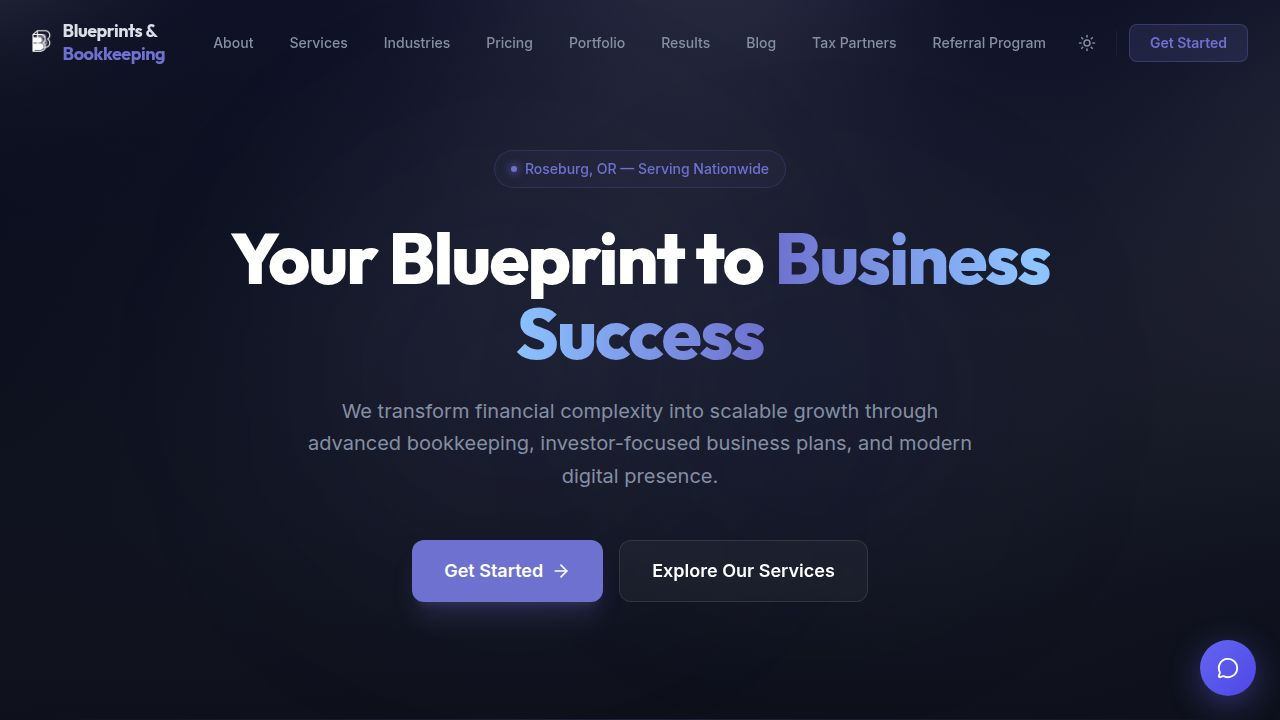
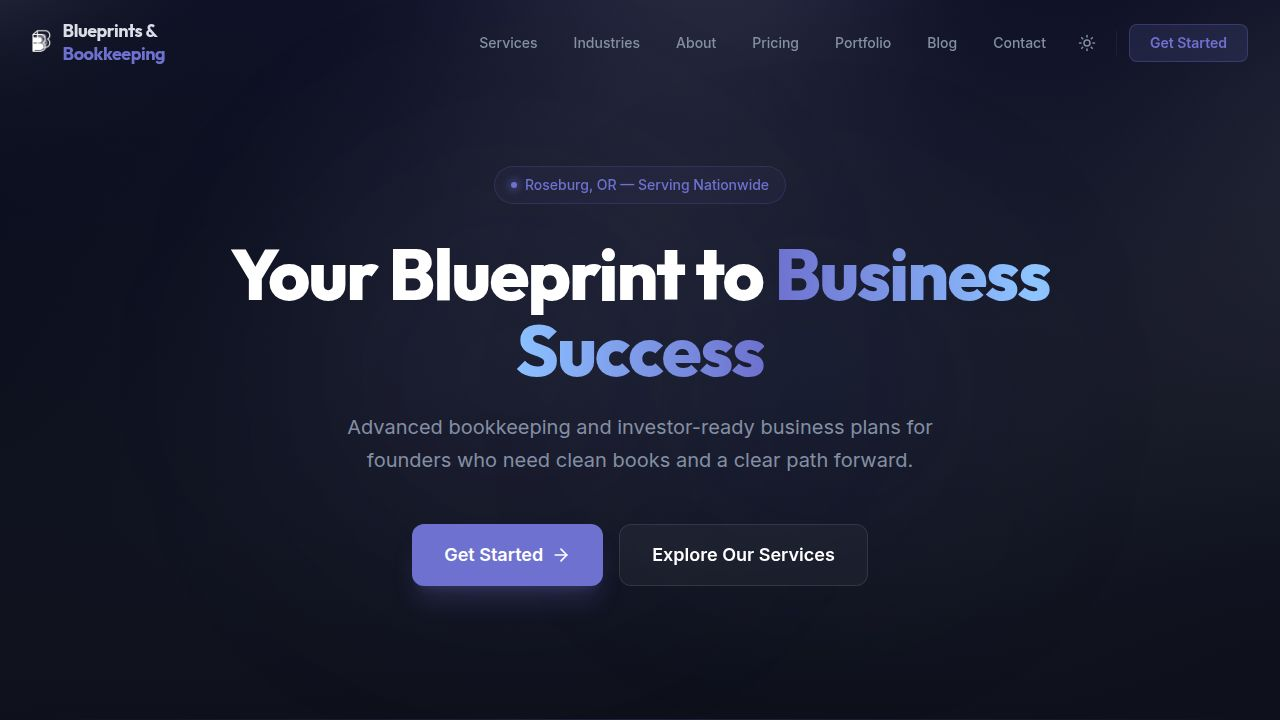
Remove template resources from the website navigation and content
Removes the '/resources' route, LeadMagnet component, and related navigation links from the website's sitemap, header, footer, and home page.

Replit-Commit-Author: Agent
Replit-Commit-Session-Id: e80823ab-9f2b-4578-8a29-d3e809ed0f51
Replit-Commit-Checkpoint-Type: full_checkpoint
Replit-Commit-Event-Id: 55de8058-c66a-45a2-bcb0-357aa8a0f068
Replit-Commit-Screenshot-Url: https://storage.googleapis.com/screenshot-production-us-central1/962ddeda-7bde-415d-96c9-3f145a4fba9a/e80823ab-9f2b-4578-8a29-d3e809ed0f51/TZmybqQ
Replit-Helium-Checkpoint-Created: true

diff --git a/artifacts/website/src/pages/Home.tsx b/artifacts/website/src/pages/Home.tsx
@@ -2,7 +2,6 @@ import { Link } from "wouter";
 import { motion } from "framer-motion";
 import { ArrowRight, BookOpen, Calculator, ShieldCheck, Clock, Users, Sparkles } from "lucide-react";
 import { usePageTitle } from "@/hooks/use-page-title";
-import { LeadMagnetSection } from "@/components/LeadMagnet";
 import { StatsProofBar, CredentialBadgeStrip, GoogleReviewsCallout, FeaturedInPlaceholder } from "@/components/TrustSignals";
 import { SEO } from "@/components/SEO";
 import { localBusinessSchema } from "@/lib/seo-schemas";
@@ -271,8 +270,6 @@ export default function Home() {
       <FeaturedInPlaceholder />
 
       <div className="glow-line max-w-5xl mx-auto" />
-
-      <LeadMagnetSection />
 
       <section className="py-24 relative overflow-hidden">
         <div className="absolute inset-0 bg-gradient-to-b from-accent/5 via-accent/[0.02] to-transparent" />

diff --git a/artifacts/website/src/App.tsx b/artifacts/website/src/App.tsx
@@ -42,7 +42,6 @@ import ClientPortal from "./pages/ClientPortal";
 import BusinessPlanning from "./pages/BusinessPlanning";
 import Status from "./pages/Status";
 import PaymentSuccess from "./pages/PaymentSuccess";
-import Resources from "./pages/Resources";
 import ServiceBookkeeping from "./pages/services/Bookkeeping";
 import ServiceBusinessPlans from "./pages/services/BusinessPlans";
 import ServiceDigitalHandshake from "./pages/services/DigitalHandshake";
@@ -134,7 +133,6 @@ function Router() {
         <Route path="/business-planning" component={BusinessPlanning} />
         <Route path="/status" component={Status} />
         <Route path="/payment-success" component={PaymentSuccess} />
-        <Route path="/resources" component={Resources} />
         <Route path="/services/bookkeeping" component={ServiceBookkeeping} />
         <Route path="/services/business-plans" component={ServiceBusinessPlans} />
         <Route path="/services/digital-handshake" component={ServiceDigitalHandshake} />

diff --git a/artifacts/website/src/components/layout/Footer.tsx b/artifacts/website/src/components/layout/Footer.tsx
@@ -78,7 +78,6 @@ export function Footer() {
                 { label: "About Tea", href: "/about" },
                 { label: "Industries", href: "/industries" },
                 { label: "Blog", href: "/blog" },
-                { label: "Free Resources", href: "/resources" },
                 { label: "FAQ", href: "/faq" },
                 { label: "Portfolio", href: "/portfolio" },
               ].map((item) => (

diff --git a/artifacts/website/src/components/layout/Header.tsx b/artifacts/website/src/components/layout/Header.tsx
@@ -11,7 +11,6 @@ const NAV_LINKS = [
   { href: "/pricing", label: "Pricing" },
   { href: "/portfolio", label: "Portfolio" },
   { href: "/blog", label: "Blog" },
-  { href: "/resources", label: "Resources" },
   { href: "/contact", label: "Contact" },
 ];
 